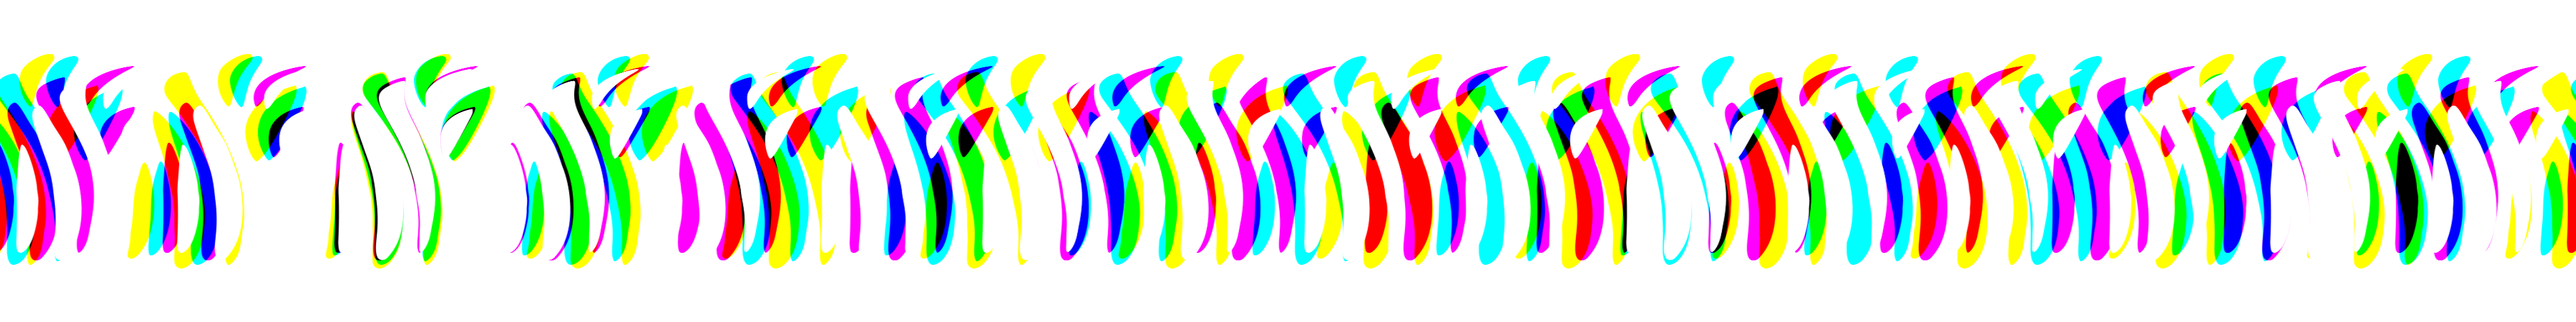
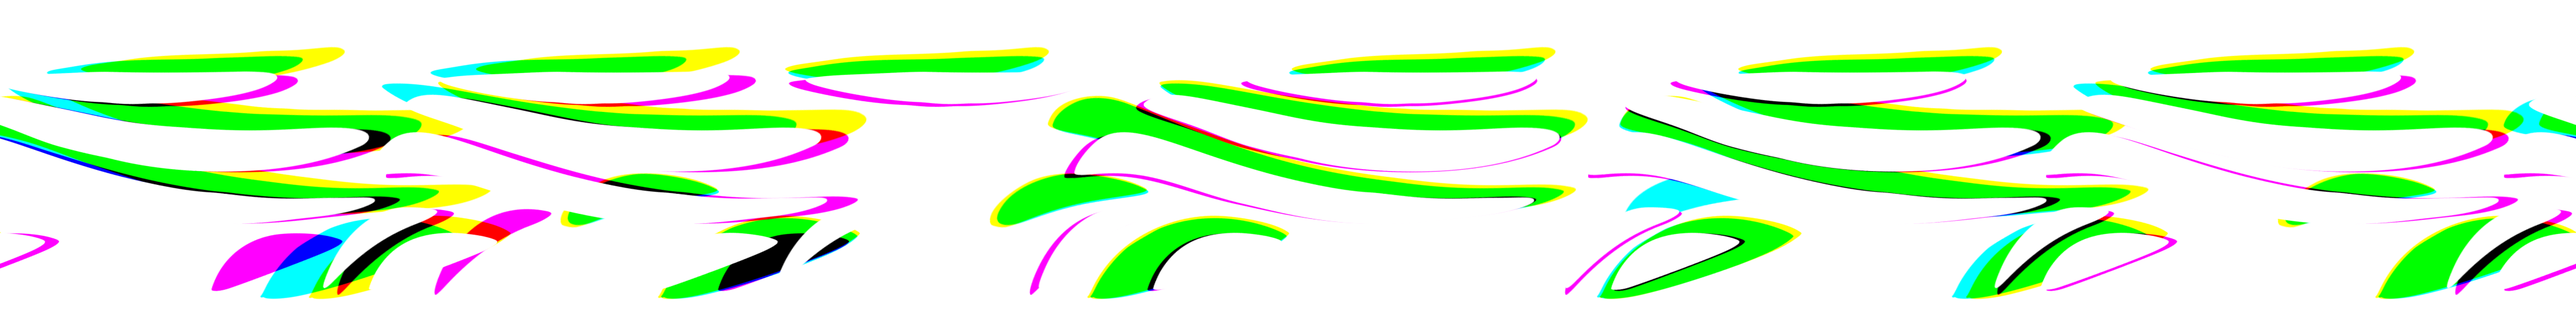
Emblem: roll each ring like a tyre, with clean ring borders
Each ring is now the tread of a wheel seen at an angle. Rolling it on its
axle moves the grooves along the ring, following their own curves, and
they pass under the next ring at its edge.

The borders between rings are rebuilt as smooth curves that run along the
front ring's own strands, fitted between the two rings' grooves so no
groove is cut. While a ring turns, the ring behind gets a soft shadow
along that edge so each ring reads clearly. At rest the emblem is still
exactly the logo.

diff --git a/site/public/assets/emblem-spin.js b/site/public/assets/emblem-spin.js
@@ -1,15 +1,16 @@
 // The Endive emblem's spin.
 //
-// The emblem is four interlaced rings. Each ring is drawn as a round, doughnut-like surface whose axis runs through
-// its two pinched ends (the ring's "hole"). On arrival each ring, one after another, turns once on that axis like a
-// wheel: its outline stays where it is while its striped surface rolls round, lit as a solid object. When every
+// The emblem is four interlaced rings. Each ring is drawn as the tread of a wheel seen at an angle: its two pinched
+// ends are where the tread turns away round the back of the wheel. On arrival each ring, one after another, rolls
+// once on its axle like a tyre: the outline stays where it is while its grooves travel along the ring, following their
+// own curves, and pass under the next ring at its edge. The rings are lit as solid objects while they turn. When every
 // ring has come full circle the emblem is exactly the logo again.
 //
-// The stripes are the logo's own grooves, sampled straight from the artwork into each ring's surface coordinates
-// (angle round the axis, distance along the ring) and repeated evenly round the parts of the ring the logo never
-// shows (emblem-rings.png). A WebGL canvas laid over the emblem draws the turn; at rest it matches the SVG, and when
-// the turn ends the canvas goes and the plain SVG is left.
-// No WebGL, reduced motion or a failed load: the emblem simply stays still.
+// The grooves are the logo's own, sampled straight from the artwork into each wheel's coordinates (angle round the
+// wheel, position across the tread) and repeated round the part of the wheel the logo never shows
+// (emblem-rings.png). The borders between rings run along the front ring's own strands (emblem-windows.png). A WebGL
+// canvas laid over the emblem draws the turn; at rest it matches the SVG, and when the turn ends the canvas goes and
+// the plain SVG is left. No WebGL, reduced motion or a failed load: the emblem simply stays still.
 (function () {
   var reduce = window.matchMedia && window.matchMedia('(prefers-reduced-motion: reduce)');
   var emblems = [].slice.call(document.querySelectorAll('svg.emblem.spin'));
@@ -26,8 +27,8 @@
     if (!loading) {
       loading = Promise.all([fetch(BASE + 'emblem-spin.json').then(function (r) { return r.json(); }),
         img(BASE + 'emblem-rings.png'), img(BASE + 'emblem-windows.png'), img(BASE + 'emblem-tint.png'), img(BASE + 'emblem-rim.png'),
-        img(BASE + 'emblem-taper.png'), img(BASE + 'emblem-fade.png')])
-        .then(function (a) { return { geo: a[0], rings: a[1], win: a[2], tint: a[3], rim: a[4], taper: a[5], fade: a[6] }; });
+        img(BASE + 'emblem-shade.png')])
+        .then(function (a) { return { geo: a[0], rings: a[1], win: a[2], tint: a[3], rim: a[4], shade: a[5] }; });
     }
     return loading;
   }
@@ -37,13 +38,14 @@
   var FS = [
     'precision highp float;',
     'varying vec2 vP;',
-    'uniform sampler2D uRings, uWin, uTint, uRim, uTaper, uFade;',
-    'uniform vec2 uM[4], uE[4], uN[4];',
-    'uniform float uL[4], uS[4], uTh[4];',
+    'uniform sampler2D uRings, uWin, uTint, uRim, uShade;',
+    'uniform vec2 uM[4], uE[4], uN[4], uLam[4];',
+    'uniform float uL[4], uTh[4], uAct;',
     'uniform float uExt;',
     'uniform vec3 uColor;',
-    'const float TAU = 6.2831853;',
+    'const float TAU = 6.2831853, PI = 3.1415927;',
     'const vec3 LIGHT = vec3(-0.4682, -0.6763, 0.5684);',
+    'const float GAM = 0.8378, PSI = 1.1345;',      // wheel tilt 48 deg; tread curves 65 deg either side
     'vec4 chan(int k) { return vec4(k == 0 ? 1.0 : 0.0, k == 1 ? 1.0 : 0.0, k == 2 ? 1.0 : 0.0, k == 3 ? 1.0 : 0.0); }',
     'vec2 uvOf(vec2 q) { return (q + uExt) / (2.0 * uExt); }',
     // position along the arc through the ring's two ends, measured from the first end (0) to the second (1)
@@ -53,35 +55,25 @@
     '  float span = thr ? sccw : TAU - sccw; float pos = thr ? mod(ang - angA, TAU) : mod(angA - ang, TAU);',
     '  return pos / span;',
     '}',
-    // point at t on the arc with sagitta s, in the ring frame (along the ends, across them)
-    'vec2 arcPt(float s, float t, float L) {',
-    '  float kk = (s * s - L * L) / (2.0 * s);',
-    '  float angA = atan(-kk, -L), angB = atan(-kk, L), angP = atan(s - kk, 0.0);',
-    '  float sccw = mod(angB - angA, TAU); bool thr = mod(angP - angA, TAU) < sccw;',
-    '  float span = thr ? sccw : TAU - sccw; float ang = thr ? angA + t * span : angA - t * span;',
-    '  float R = abs(s - kk); return vec2(R * cos(ang), kk + R * sin(ang));',
-    '}',
-    // ring k at point q, turned by th: returns (ink, light). Near a neighbouring ring or the outline, grooves taper
-    // away (by thresholding a blurred copy) so they slide under rather than being sliced off
-    'vec2 ring(vec2 q, vec2 M, vec2 E, vec2 N, float L, float S, float th, float cut, vec4 ch) {',
+    // ring k at point q, rolled by th: returns (ink, light). The strand through q is the arc with sagitta lam; along
+    // it, t is the angle round the wheel (phi = asin(2t - 1)); rolling moves the grooves along their arcs
+    'vec2 ring(vec2 q, vec2 M, vec2 E, vec2 N, float L, vec2 lr, float th, vec4 ch) {',
     '  vec2 d = q - M; float a = dot(d, E); float b = dot(d, N);',
     '  if (abs(b) < 0.001) b = 0.001;',
     '  float kk = (a * a + b * b - L * L) / (2.0 * b); float R = sqrt(L * L + kk * kk);',
     '  float lam = b > 0.0 ? kk + R : kk - R;',
     '  float t = arcT(a, b, lam, kk, L);',
     '  if (t < 0.0 || t > 1.0) return vec2(0.0, 0.0);',
-    // the strand through q is the meridian at angle al round the ring's axis
-    '  float al = acos(clamp(lam / S, -1.0, 1.0));',
-    '  float x = fract((al + th) / TAU);',
-    '  float g = 1.0 - dot(texture2D(uRings, vec2(x, t)), ch);',
-    '  float gb = dot(texture2D(uTaper, vec2(x, t)), ch);',
-    '  float ink = 1.0 - g * smoothstep(cut - 0.04, cut + 0.04, gb);',
-    // lighting: the surface normal of the round ring at this meridian
-    '  vec2 c = arcPt(S, t, L); float sg = sign(S); float s = abs(S);',
-    '  float kc = (s * s - L * L) / (2.0 * s); float Rc = s - kc;',
-    '  float ne = c.x / Rc, nd = (c.y * sg - kc) / Rc;',
-    '  vec2 sh = N * sg;',
-    '  vec3 nrm = ne * vec3(E, 0.0) + nd * (cos(al) * vec3(sh, 0.0) + sin(al) * vec3(0.0, 0.0, 1.0));',
+    '  float phi = asin(clamp(2.0 * t - 1.0, -1.0, 1.0));',
+    '  float v = (lam - lr.x) / (lr.y - lr.x);',
+    '  float x = fract((phi - th + PI) / TAU);',
+    '  float ink = dot(texture2D(uRings, vec2(x, v)), ch);',
+    // lighting: the tread of a wheel tilted by GAM, curved across its width
+    '  vec3 e3 = vec3(E, 0.0), b3 = vec3(-N, 0.0), z3 = vec3(0.0, 0.0, 1.0);',
+    '  vec3 dm = sin(GAM) * z3 + cos(GAM) * b3, ax = cos(GAM) * z3 - sin(GAM) * b3;',
+    '  vec3 rad = sin(phi) * e3 + cos(phi) * dm;',
+    '  float psi = PSI * (2.0 * clamp(v, 0.0, 1.0) - 1.0);',
+    '  vec3 nrm = cos(psi) * rad + sin(psi) * ax;',
     '  return vec2(ink, clamp(dot(nrm, LIGHT), 0.0, 1.0));',
     '}',
     'void main() {',
@@ -89,15 +81,15 @@
     '  if (uv.x < 0.0 || uv.y < 0.0 || uv.x > 1.0 || uv.y > 1.0) { gl_FragColor = vec4(0.0); return; }',
     '  vec4 win = texture2D(uWin, uv); vec4 tw = texture2D(uTint, uv);',
     '  float ink = 0.0; vec3 col = vec3(0.0); float ws = 0.0;',
+    '  vec4 shd = texture2D(uShade, uv);',
     '  for (int k = 0; k < 4; k++) {',
     '    vec4 ch = chan(k); float w = dot(win, ch); float wt = dot(tw, ch);',
     '    if (w < 0.002 && wt < 0.002) continue;',
     '    float p = max(sin(0.5 * clamp(uTh[k] / TAU, 0.0, 1.0) * TAU), 0.0);',
-    '    float cut = pow(p, 0.2) * (1.0 - dot(texture2D(uFade, uv), ch));',
-    '    vec2 r = ring(vP, uM[k], uE[k], uN[k], uL[k], uS[k], uTh[k], cut, ch);',
+    '    vec2 r = ring(vP, uM[k], uE[k], uN[k], uL[k], uLam[k], uTh[k], ch);',
     '    float spin = pow(p, 0.6);',
-    '    float tone = 1.0 + spin * (-0.42 + 0.62 * r.y);',
-    '    vec3 cc = clamp(uColor * tone + spin * 0.18 * pow(r.y, 12.0), 0.0, 1.0);',
+    '    float tone = (1.0 + spin * (-0.45 + 0.65 * r.y)) * (1.0 - 0.32 * pow(uAct, 0.6) * dot(shd, ch));',
+    '    vec3 cc = clamp(uColor * tone + spin * 0.16 * pow(r.y, 14.0), 0.0, 1.0);',
     '    ink += w * r.x; col += wt * cc; ws += wt;',
     '  }',
     '  ink = clamp(max(ink, texture2D(uRim, uv).r), 0.0, 1.0);',
@@ -146,25 +138,27 @@
     gl.bufferData(gl.ARRAY_BUFFER, new Float32Array([-1, -1, 1, -1, -1, 1, 1, 1]), gl.STATIC_DRAW);
     var loc = gl.getAttribLocation(prog, 'p'); gl.enableVertexAttribArray(loc); gl.vertexAttribPointer(loc, 2, gl.FLOAT, false, 0, 0);
     texture(gl, A.rings, 0, true); texture(gl, A.win, 1, false); texture(gl, A.tint, 2, false); texture(gl, A.rim, 3, false);
-    texture(gl, A.taper, 4, true); texture(gl, A.fade, 5, false);
+    texture(gl, A.shade, 4, false);
     var U = function (n) { return gl.getUniformLocation(prog, n); };
     gl.uniform1i(U('uRings'), 0); gl.uniform1i(U('uWin'), 1); gl.uniform1i(U('uTint'), 2); gl.uniform1i(U('uRim'), 3);
-    gl.uniform1i(U('uTaper'), 4); gl.uniform1i(U('uFade'), 5);
+    gl.uniform1i(U('uShade'), 4);
     var g = A.geo.rings;
     var flat = function (key) { var o = []; g.forEach(function (x) { o.push(x[key][0], x[key][1]); }); return o; };
     gl.uniform2fv(U('uM'), flat('M')); gl.uniform2fv(U('uE'), flat('e')); gl.uniform2fv(U('uN'), flat('n'));
     gl.uniform1fv(U('uL'), g.map(function (x) { return x.L; }));
-    gl.uniform1fv(U('uS'), g.map(function (x) { return x.S; }));
+    gl.uniform2fv(U('uLam'), flat('lam'));
     gl.uniform1f(U('uExt'), A.geo.ext);
     gl.uniform1f(U('uView'), VIEW);
     gl.uniform3fv(U('uColor'), rgb(getComputedStyle(svg).fill));
     gl.viewport(0, 0, cv.width, cv.height);
-    var uTh = U('uTh');
+    var uTh = U('uTh'), uAct = U('uAct');
     host.appendChild(cv);
     return {
       canvas: cv,
       draw: function (th) {
         gl.uniform1fv(uTh, th);
+        var act = 0; for (var i = 0; i < 4; i++) act = Math.max(act, Math.sin(th[i] / 2));
+        gl.uniform1f(uAct, act);
         gl.clearColor(0, 0, 0, 0); gl.clear(gl.COLOR_BUFFER_BIT); gl.drawArrays(gl.TRIANGLE_STRIP, 0, 4);
       },
       destroy: function () {

diff --git a/site/public/assets/site.css b/site/public/assets/site.css
@@ -101,7 +101,7 @@ a:hover { color: var(--accent-strong); }
 
 /* ---------- Emblem ----------
    Inline SVG of the exact icon. On arrival emblem-spin.js lays a canvas over it and rolls each of the four rings once
-   round its own axis, like a wheel; then the canvas goes and the SVG is left. Without WebGL, or with reduced motion, it stays still. */
+   on its axle, like a tyre; then the canvas goes and the SVG is left. Without WebGL, or with reduced motion, it stays still. */
 .emblem { width: 100%; height: auto; fill: var(--emblem); overflow: visible; }
 .emblem.spin { animation: emblem-in .5s ease-out both; }
 .emblem.waiting { opacity: 0; }

diff --git a/README.md b/README.md
@@ -13,7 +13,7 @@ The brand pack is internal and lives in `brand/` (SVG, PNG, PDF, favicons, socia
 
 - Colours: Endive Green `#26734A`, Deep Green `#13442B`, Ink `#101814`, Mint `#7DCAA1`. Montserrat is the only typeface.
 - Shared styles and scripts for every page: `site/public/assets/site.css` and `site.js`. The header and footer logos are `assets/logo.svg` and `assets/logo-reversed.svg`.
-- The emblem spin is `assets/emblem-spin.js`. Each of the four rings is treated as a round, doughnut-like surface whose axis runs through its two pinched ends. On arrival the rings, one after another, turn once on that axis like a wheel: the outline stays put while the striped surface rolls round, lit in 3D, and the emblem ends exactly on the logo. It draws with WebGL from `emblem-rings.png` (each ring's surface: angle round its axis by distance along it, with the logo's own grooves repeated round the hidden part), `emblem-taper.png` and `emblem-fade.png` (so grooves taper as they slide under a neighbour), `emblem-windows.png` and `emblem-tint.png` (which part of the emblem is which ring), `emblem-rim.png` (the outline that stays solid) and `emblem-spin.json`. Clicking the emblem replays it. No WebGL or reduced motion: the emblem stays still.
+- The emblem spin is `assets/emblem-spin.js`. Each of the four rings is drawn as the tread of a wheel seen at an angle (its two pinched ends are where the tread turns away). On arrival the rings, one after another, roll once on their axles like tyres: each outline stays put while its grooves travel along the ring, following their own curves, and pass under the next ring at its edge, lit in 3D. The emblem ends exactly on the logo. It draws with WebGL from `emblem-rings.png` (each ring's tread: angle round the wheel by position across it, with the logo's own grooves repeated round the hidden part), `emblem-windows.png` and `emblem-tint.png` (which part of the emblem is which ring; borders run along the front ring's strands), `emblem-shade.png` (the soft shadow where a ring passes under its neighbour), `emblem-rim.png` (the outline that stays solid) and `emblem-spin.json`. Clicking the emblem replays it. No WebGL or reduced motion: the emblem stays still.
 - The site's favicons come from the brand pack and sit in `site/public/`.
 
 ## Deploy
